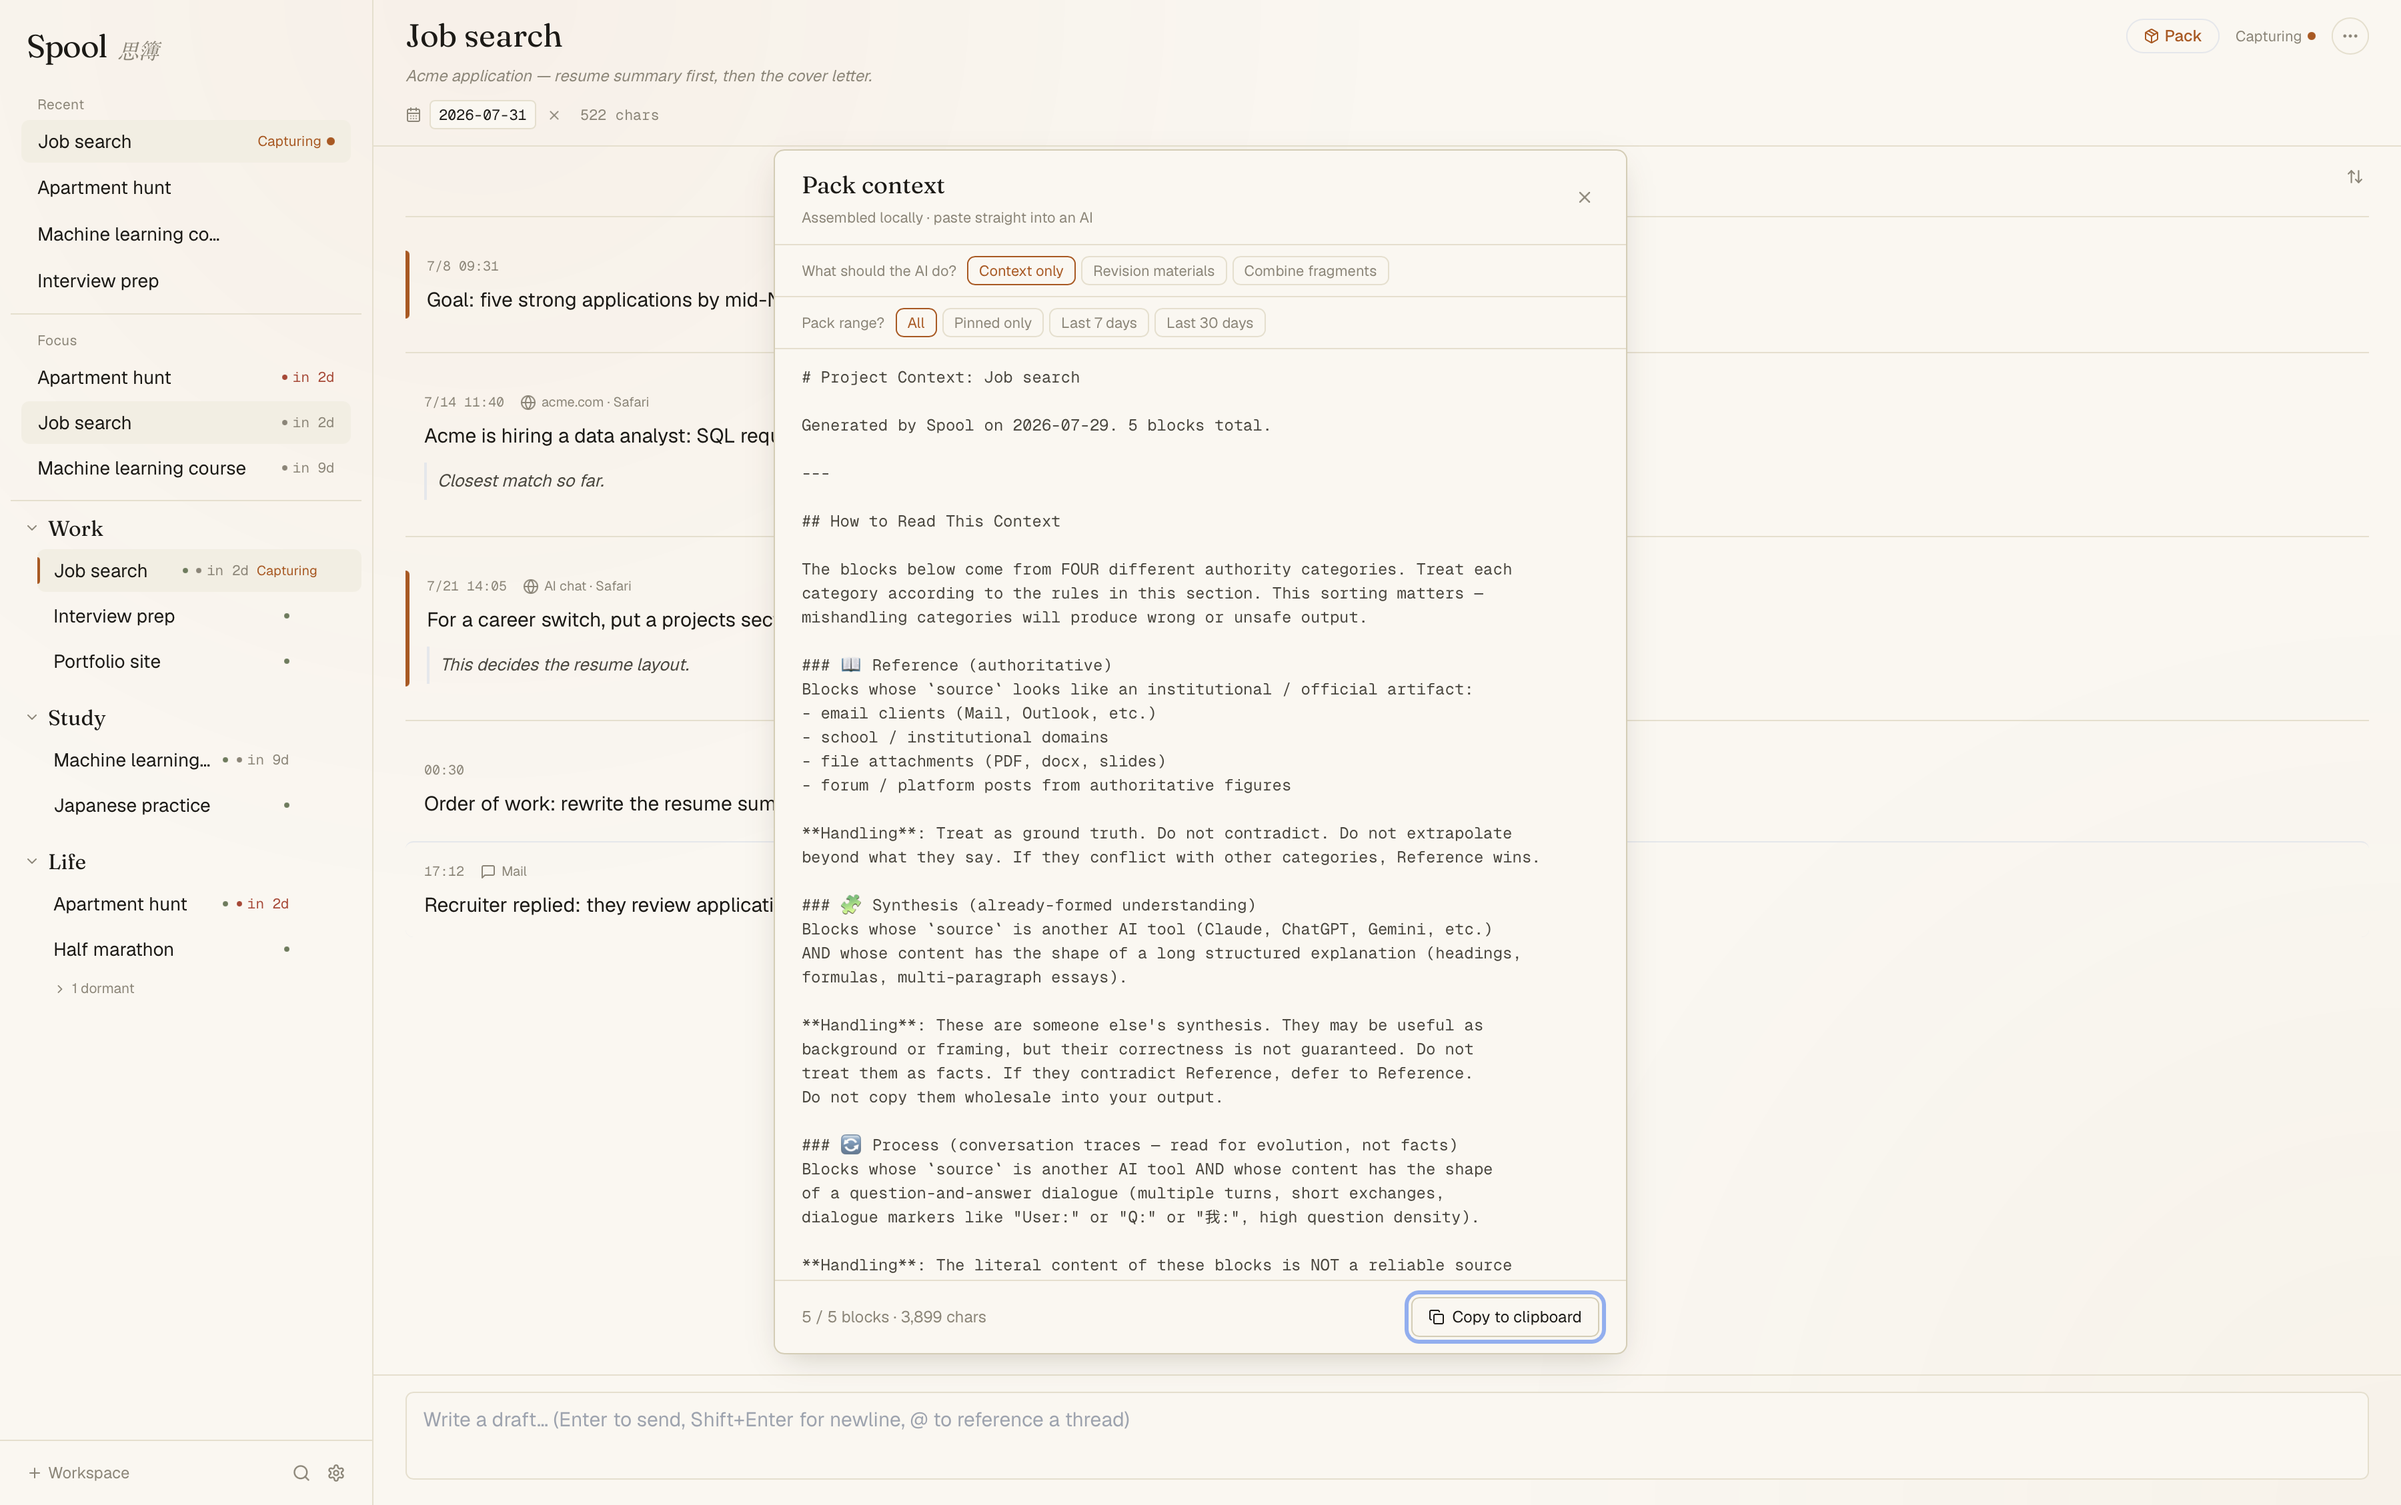
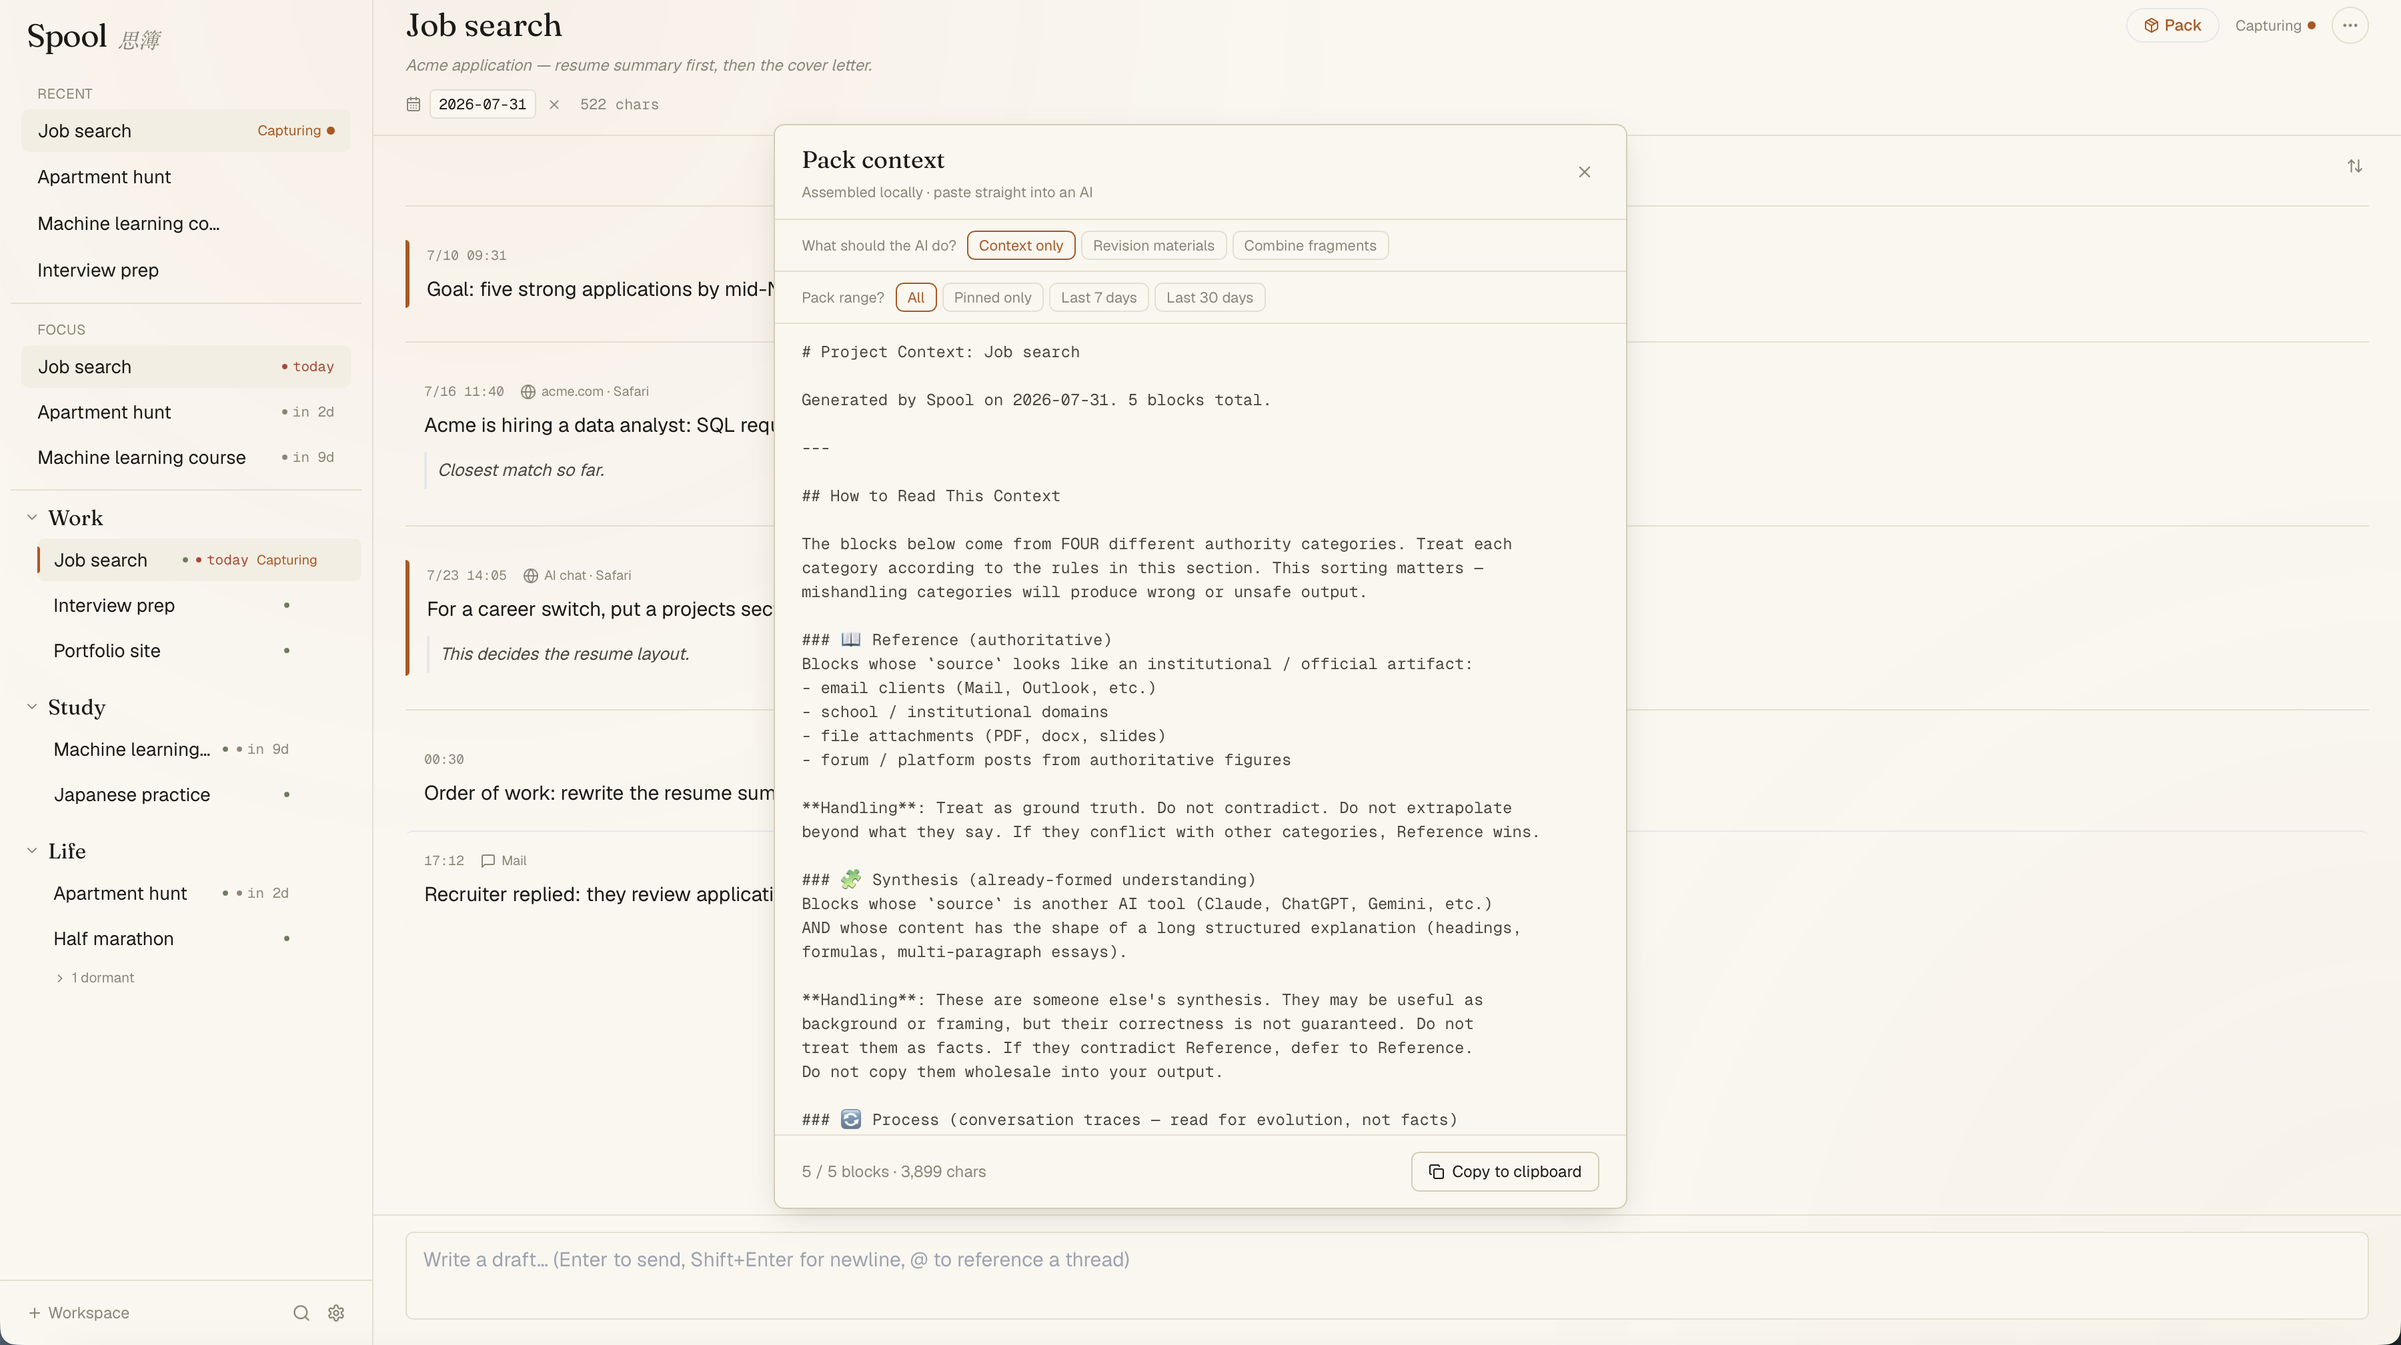
docs(shots): 重拍含侧边栏的三张截图,与当前 EN 构建对齐
Ocean 2026-07-31 拍板「换英文」。实际情况是演示库和截图本来就是英文的
(seed-demo-library.sh 里就是 language=en)——旧判断里「现有脚本种的是中文」写错了。
真正的问题是区标改大写(6ab0152)之后,旧图里还是 Recent / Focus,与构建不一致。

所以重拍的是唯一会漂移的那三张:主窗口、打包弹窗、完成态摘要,以及由它们裁出的
三个站点资产。浮层、pack-dialog、app-thread-after、所有 mcp-* 都不含区标,没动——
重拍它们只会引入无谓差异。

站点 <img width> 全按宽度写,没改一行 HTML;图高从 2258 变 2018 是屏幕可用区域变小。
DESIGN_EN_TYPOGRAPHY.md 的旧判断折叠存档,不删,过程证据留着。

diff --git a/docs/DESIGN_EN_TYPOGRAPHY.md b/docs/DESIGN_EN_TYPOGRAPHY.md
@@ -51,6 +51,33 @@
 **仍欠视觉确认**:这是静态改动,EN 下的实际观感要在真机 EN 环境看一眼——
 与下面的 EN 截图走查同批做,别单独为它开一次隔离构建。
 
+### 二、官网/README 换 EN 截图:**Ocean 2026-07-31 拍板「换英文」,已执行**
+
+下面这节(推迟的三条理由)记录的是 2026-07-30 的判断,**已经过时**,保留作过程证据。
+推翻它的是 §2.2/§2.3 落地:默认语言现在跟随系统 locale,教程也有英文版,
+「英文用户下载后第一眼是中文」这个前提没有了。
+
+**实际做了什么(2026-07-31)**:
+- 演示库本来就是英文的(`seed-demo-library.sh` 里 `"language":"en"`,内容也是英文)——
+  下面第 2 条说「现有脚本种的是中文」当时就写错了。所以这次**不是换语言,是重拍**:
+  区标改大写(本文档第一节)之后,旧图里还是 `Recent` / `Focus`,与当前构建不一致。
+- 重拍了**唯一会漂移的那三张**——含侧边栏区标的:
+  `docs/screenshots/app-project.png` / `app-pack.png` / `app-digest.png`,
+  以及由它们裁出的站点资产 `site/assets/shots/app-thread-before.png`、
+  `site/assets/pack.png`、`site/assets/digest.png`。
+- **没重拍**:`capture-toast.png`(浮层,无侧边栏)、`pack-dialog.png`(只有弹窗)、
+  `app-thread-after.png`(只有脉络面板)、所有 `mcp-*.png`(拍的是 AI 客户端界面)。
+  它们不含区标,不受本次改动影响——**重拍反而会引入无谓的差异**。
+- 图片高度从 2258px 变成 2018px:当时那台屏幕的可用区域比现在大
+  (同为 1800×1169 缩放模式,但 Dock 占位不同)。站点 `<img width>` 全是按宽度写的,
+  没改一行 HTML。
+
+**还欠的**:EN 溢出走查(第三节)仍未做——重拍时只看了主窗口三态,
+设置四个 tab / 收集面板没逐面看。
+
+<details>
+<summary>2026-07-30 的原判断(已推翻,存档)</summary>
+
 ### 二、官网/README 换 EN 截图:**不换**,改为「按语言各一套」并推迟
 
 原提案(全站换成 EN 截图)会把割裂**镜像**到中文访客身上:官网是双语的
@@ -74,6 +101,8 @@
 **下一步(等上游决策后)**:先定「默认语言是否跟随系统 + 教程是否出 EN 版」,
 再一次性做:EN 演示库 → 隔离 EN 构建 → 五面走查(主窗口/设置四 tab/pack 弹窗/
 捕捉浮层/收集面板,顺带确认本次区标观感)→ 双语截图各一套 → 站点按 lang 切换。
+
+</details>
 
 ### 三、静态审计 #1(EN 溢出)仍未验
 
